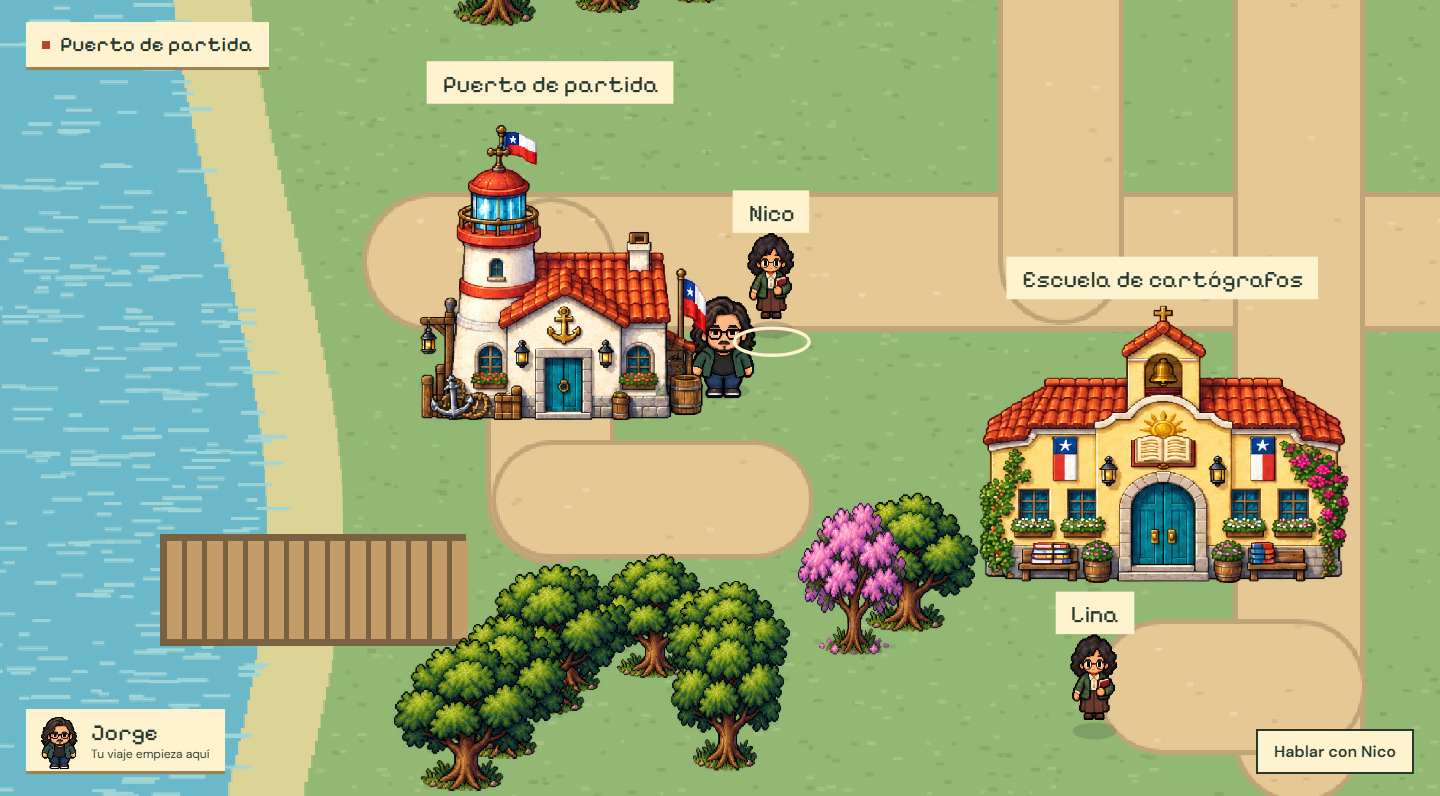
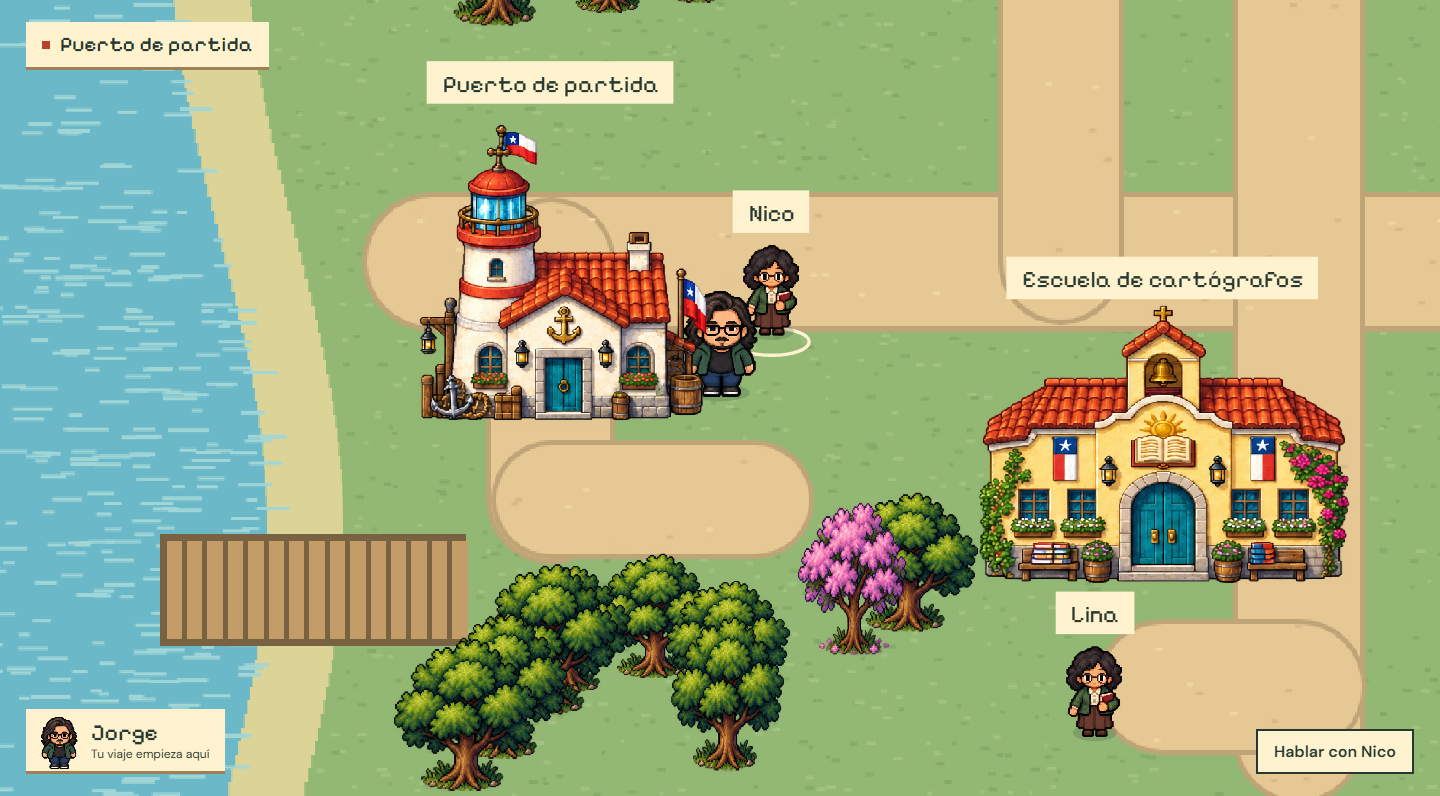
fix: isolate sprite frames and align room interaction cues

Changed region(s): [[0.4688, 0.3015, 0.5625, 0.5126], [0.7188, 0.7839, 0.7812, 0.9347]]

diff --git a/assets/js/rpg-world.js b/assets/js/rpg-world.js
@@ -71,6 +71,7 @@
   function updateDiscovery() { $('#discovery').textContent = `${visited.size} de 5 lugares visitados`; }
   function enter(id) {
     if (!ready) { announce('El mapa aún no está disponible. Puedes leer todo el contenido en el cuaderno.'); return; }
+    returnFocus = canvas;
     started = true; paused = false; $('#welcome').hidden = true; $('#paused').hidden = true; $('#pause').hidden = false; $('#pause').textContent = 'Pausar'; $('#interact').hidden = false; $('.touch-pad').hidden = false;
     if (scene === 'outside') outsidePosition = { x: player.x, y: player.y };
     scene = id; place = id; project = ''; visited.add(id); player.x = 320; player.y = 378; player.direction = 2; stopInput();
@@ -136,11 +137,25 @@
     // A small quay gives the coast an inhabited edge; it does not change collision geometry.
     g.fillStyle='#796242';g.fillRect(100,870,180,66);for(let x=104;x<280;x+=12){g.fillStyle='#c39c67';g.fillRect(x,874,9,58);}
   }
-  function sprite(img,col,row,cols,rows,x,y,w,h) { if(!img)return;const sw=img.width/cols,sh=img.height/rows;ctx.drawImage(img,col*sw,row*sh,sw,sh,Math.round(x-w/2),Math.round(y-h),w,h); }
+  function sprite(img,col,row,cols,rows,x,y,w,h) {
+    if(!img)return;const sw=img.width/cols,sh=img.height/rows;
+    if(img===assets.props&&col===2&&row===1){const dw=w*289/sw,dh=h*376/sh;ctx.drawImage(img,954,455,289,376,Math.round(x-dw/2),Math.round(y-dh),dw,dh);return;}
+    ctx.drawImage(img,col*sw,row*sh,sw,sh,Math.round(x-w/2),Math.round(y-h),w,h);
+  }
   function label(text,x,y,color='#fff2cf') {ctx.font='14px Pixelify, sans-serif';const width=ctx.measureText(text).width+18;ctx.fillStyle=color;ctx.fillRect(Math.round(x-width/2),y-18,width,25);ctx.fillStyle='#26382f';ctx.textAlign='center';ctx.fillText(text,x,y);}
-  function actor(p,isPlayer=false) { ctx.fillStyle='#40563c40';ctx.beginPath();ctx.ellipse(p.x,p.y-4,isPlayer?17:13,5,0,0,Math.PI*2);ctx.fill();if(isPlayer)sprite(assets.jorge,player.step,player.direction,4,4,p.x,p.y,62,66);else sprite(assets.actors,p.sprite,3,4,4,p.x,p.y,53,61); }
+  // Measured opaque bounds: generated sheets have unequal transparent gutters, not exact tiles.
+  const npcRects=[[76,937,180,264],[391,930,185,272],[710,933,154,268],[1009,940,162,261]];
+  const jorgeRects=[[79,30,201,288],[377,30,199,285],[671,30,201,289],[974,30,202,285],[80,332,193,291],[381,332,192,287],[682,332,187,291],[981,332,189,287],[71,636,201,278],[383,636,193,272],[673,636,199,278],[981,636,195,272],[81,924,190,290],[382,924,189,286],[680,924,190,291],[984,924,187,286]];
+  function actor(p,isPlayer=false) {
+    const img=isPlayer?assets.jorge:assets.actors;if(!img)return;
+    ctx.fillStyle='#40563c40';ctx.beginPath();ctx.ellipse(p.x,p.y-3,isPlayer?17:13,5,0,0,Math.PI*2);ctx.fill();
+    const [sx,sy,sw,sh]=isPlayer?jorgeRects[player.direction*4+player.step]:npcRects[p.sprite],scale=isPlayer?.22:.205;
+    ctx.drawImage(img,sx,sy,sw,sh,Math.round(p.x-sw*scale/2),Math.round(p.y-sh*scale),sw*scale,sh*scale);
+  }
+  function groundTarget() {if(nearby&&started&&!dialog.open&&!paused){ctx.strokeStyle='#fff2cf';ctx.lineWidth=2;ctx.beginPath();ctx.ellipse(nearby.x,nearby.y+3,22,8,0,0,Math.PI*2);ctx.stroke();}}
   function drawOutside() {
     ctx.drawImage(terrain,0,0);
+    groundTarget();
     const entities=[...W.trees.map(t=>({...t,type:'tree'})),...W.buildings.map(b=>({...b,type:'building'})),...W.npcs.map(n=>({...n,type:'npc'})),{...player,type:'player'}].sort((a,b)=>a.y-b.y);
     entities.forEach(e=>{if(e.x+e.w<view.x||e.x-(e.w||80)>view.x+view.w/view.scale||e.y<view.y||e.y-(e.h||90)>view.y+view.h/view.scale)return;
       if(e.type==='tree')sprite(assets.props,e.sprite,0,4,2,e.x,e.y,e.w,e.h);
@@ -156,10 +171,12 @@
     for(let y=130;y<438;y+=25){ctx.fillStyle='#cda877';ctx.fillRect(48,y,544,2);for(let x=50+(y%2)*40;x<590;x+=100)ctx.fillRect(x,y,2,25);}
     ctx.fillStyle='#f7dfac';ctx.fillRect(48,102,544,22);ctx.fillStyle='#647f78';ctx.fillRect(70,52,90,45);ctx.fillRect(475,52,90,45);ctx.fillStyle='#b3d9d5';ctx.fillRect(76,58,78,32);ctx.fillRect(481,58,78,32);
     ctx.fillStyle='#b8674c';ctx.fillRect(251,264,138,145);ctx.fillStyle='#e4b476';ctx.fillRect(257,270,126,133);ctx.fillStyle='#b8674c';ctx.fillRect(266,279,108,115);
+    ctx.fillStyle='#4d604f';ctx.fillRect(288,418,64,28);
+    groundTarget();
     sprite(assets.props,2,1,4,2,115,228,115,135);sprite(assets.props,scene==='observatorio'?3:1,1,4,2,320,236,145,125);
     const npc={...W.npcs.find(n=>n.place===scene),x:510,y:260}; actor(npc);label(npc.name,510,195);
-    label(scene==='escuela'?'Programas y formación':scene==='puerto'?'Hitos del recorrido':'Mesa de proyectos',320,170);
-    ctx.fillStyle='#4d604f';ctx.fillRect(288,418,64,28);label('Salida',320,469);
+    label(scene==='escuela'?'Programas y formación':scene==='puerto'?'Hitos del recorrido':'Mesa de proyectos',320,104);
+    label('Salida',320,469);
     actor(player,true);
   }
   function draw() {
@@ -170,7 +187,6 @@
     ctx.scale(view.scale,view.scale);ctx.translate(-Math.round(view.x),-Math.round(view.y));ctx.imageSmoothingEnabled=false;
     if(scene==='outside')drawOutside();else drawInside();
     if(route.length){const end=route[route.length-1];ctx.strokeStyle='#375e4c';ctx.lineWidth=2;ctx.strokeRect(end.x-6,end.y-4,12,8);}
-    if(nearby&&started&&!dialog.open&&!paused){ctx.strokeStyle='#fff2cf';ctx.lineWidth=2;ctx.beginPath();ctx.ellipse(nearby.x,nearby.y+3,22,8,0,0,Math.PI*2);ctx.stroke();}
     // Expose observable play state on the canvas for regression checks and accessible tooling.
     canvas.dataset.x=player.x.toFixed(1);canvas.dataset.y=player.y.toFixed(1);canvas.dataset.scene=scene;canvas.dataset.direction=player.direction;canvas.dataset.paused=String(paused);canvas.dataset.route=route.length;
   }
